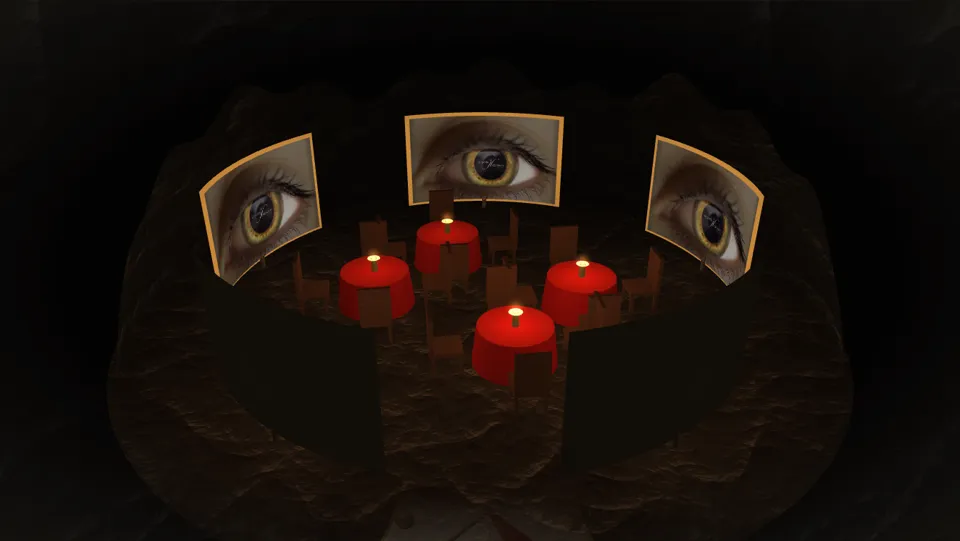
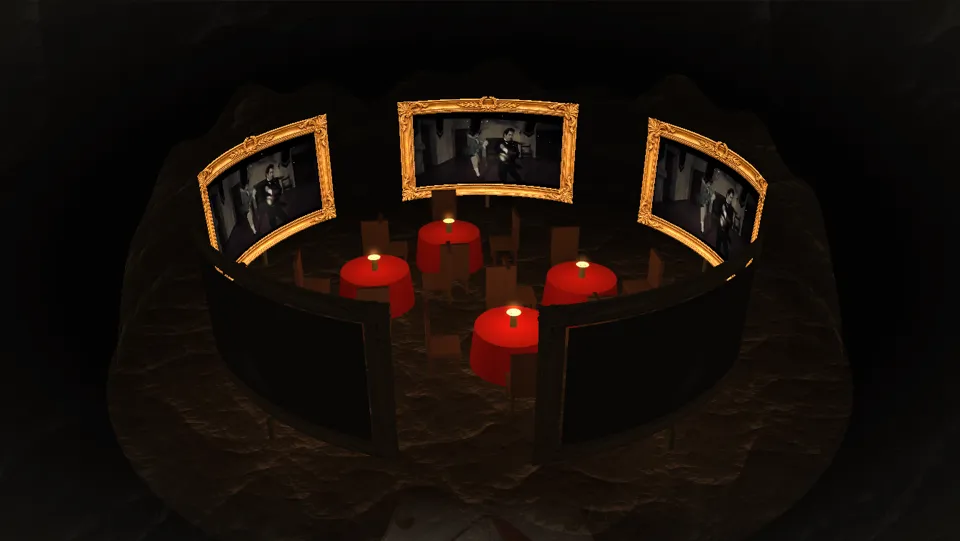
Grotte Napoléon : cadres dorés d'époque (moulures, acanthes, couronne de laurier) autour des cinq écrans de la salle 3D
Claude-Session: https://claude.ai/code/session_01Tg9JuPFfiTJrQ2axzwAjp1

diff --git a/clients/la-grotte-napoleon/salle.js b/clients/la-grotte-napoleon/salle.js
@@ -59,7 +59,10 @@
   };
 
   /* ---------- les dimensions ---------- */
-  const R = 3.0, RM = 3.7, HM = 2.2, HAUT = 1.45, BAS = .14, DEMI = .37, N = 5, NL = N + 4;
+  const R = 3.0, RM = 3.7, HM = 2.2, DEMI = .37, N = 5, NL = N + 4;
+  /* l'écran a la forme de l'ouverture du cadre doré (images/cadre.webp, proportions 2/1 ; moulures : 10 % à gauche et à droite, 14,8 % en haut et en bas) */
+  const LARG = 2 * DEMI * R, HECR = LARG / 2.0, BAS = .4, HAUT = BAS + HECR, CG = .099, CH = .148;
+  const LC = LARG / (1 - 2 * CG), HC = HECR / (1 - 2 * CH), RC = R - .02, DC = LC / 2 / RC, YC0 = (BAS + HAUT) / 2 - HC / 2, YC1 = YC0 + HC;
   const TABLES = [[-1.0, -.62], [1.0, -.62], [-1.0, .72], [1.0, .72]], RT = .4, HT = .44;
   const ECRANS = [...Array(N)].map((_, i) => { const a = i * 2 * Math.PI / N; return [-Math.sin(a), Math.cos(a)]; });
 
@@ -70,22 +73,25 @@
     void main(){ vec3 q = p; if (miroir > .5) q.y = -q.y; w = q; uv = t; n = nr; gl_Position = P * V * vec4(q, 1.0); }`;
   /* les objets éclairés : 5 écrans (couleur du film) et 4 lampes (vacillantes), Lambert doux, roche en texture si demandé */
   const pLum = prog(VS, `precision mediump float; varying vec2 uv; varying vec3 w, n; uniform vec3 col, oeil; uniform vec3 lp[${NL}], lc[${NL}];
-    uniform sampler2D roche; uniform float tex, coupe, brille, dos; ${brume}
+    uniform sampler2D roche, motif; uniform float tex, coupe, brille, dos, orne; ${brume}
     void main(){
       if (coupe > .5) { float c = dot(normalize(w.xz), normalize(oeil.xz)), an = atan(w.x, w.z); /* la paroi s’abaisse côté caméra (maquette), le haut irrégulier comme de la roche */
         float h = ${HM.toFixed(2)} * (1.0 - smoothstep(-.35, .55, c)) * (.86 + .08 * sin(an * 7.0) + .06 * sin(an * 17.0 + 1.3)); if (w.y > h) discard; }
       vec3 nn = normalize(n); if (!gl_FrontFacing) nn = -nn;
-      vec3 base = col; if (tex > .5) base *= texture2D(roche, fract((abs(nn.y) > .5 ? w.xz : vec2(atan(w.x, w.z) * 1.2, w.y)) * .32)).rgb * 1.7;
+      vec3 base = col;
+      if (orne > .5) { vec4 m = texture2D(motif, vec2(1.0 - uv.x, uv.y)); if (m.a < .5) discard; base = m.rgb * 1.1; } /* le cadre doré : ses moulures, son ouverture vide */
+      if (tex > .5) base *= texture2D(roche, fract((abs(nn.y) > .5 ? w.xz : vec2(atan(w.x, w.z) * 1.2, w.y)) * .32)).rgb * 1.7;
       vec3 l = base * vec3(.05,.042,.034);
       for (int i = 0; i < ${NL}; i++) { vec3 d = lp[i] - w; float r = length(d); d /= r;
         float lam = max(dot(nn, d), 0.0) * .8 + .2; l += base * lc[i] * lam / (1.0 + r * r * (i < ${N} ? .22 : 2.6)); }
       l += brille * base;
       if (dos > .5 && gl_FrontFacing) l = vec3(.035,.028,.02) + l * .08; /* le cadre vu de dos : le bois sombre du dos de l'écran */
       gl_FragColor = vec4(brume(l, w, oeil), 1.0); }`);
+  gl.useProgram(pLum); gl.uniform1i(gl.getUniformLocation(pLum, "motif"), 1); /* le cadre doré sur l'unité de texture 1 */
   /* l'écran : le film côté salle, le dos sombre côté extérieur ; le reflet sur le sol pâlit en s'éloignant */
   const pEcran = prog(VS, `precision mediump float; varying vec2 uv; varying vec3 w, n; uniform sampler2D film; uniform float miroir; uniform vec3 oeil; ${brume}
     void main(){ bool face = !gl_FrontFacing; vec3 c;
-      if (miroir > .5 || face) { c = texture2D(film, vec2(1.0 - uv.x, uv.y)).rgb * 1.15; float v = smoothstep(0.0, .05, uv.x) * smoothstep(1.0, .95, uv.x); c *= .8 + .2 * v; }
+      if (miroir > .5 || face) { c = texture2D(film, vec2(1.0 - uv.x, .056 + uv.y * .889)).rgb * 1.15; float v = smoothstep(0.0, .05, uv.x) * smoothstep(1.0, .95, uv.x); c *= .8 + .2 * v; }
       else c = vec3(.03,.025,.02);
       float a = 1.0; if (miroir > .5) a = .26 * pow(uv.y, 1.8);
       gl_FragColor = vec4(brume(c, w, oeil), a); }`);
@@ -97,8 +103,8 @@
     void main(){ vec2 d = gl_PointCoord - .5; float k = exp(-dot(d, d) * 18.0); gl_FragColor = vec4(col * k * a, 1.0); }`);
 
   /* ---------- les formes ---------- */
-  const ecran = tronc(R, R, BAS, HAUT, 20, 0, 0, -DEMI, DEMI), cadre = tronc(R + .03, R + .03, BAS - .045, HAUT + .045, 20, 0, 0, -DEMI - .02, DEMI + .02);
-  const pied = tronc(.035, .035, 0, BAS, 6, 0, R + .02);
+  const ecran = tronc(R, R, BAS, HAUT, 20, 0, 0, -DEMI, DEMI), cadre = tronc(RC, RC, YC0, YC1, 28, 0, 0, -DC, DC);
+  const pied = tronc(.035, .035, 0, YC0 + .05, 6, 0, R + .02);
   const sol = disque(RM + .35, 0, 96), mur = tronc(RM + .25, RM - .1, 0, HM, 120, 0, 0, 0, Math.PI * 2, -1);
   const nappes = TABLES.map(([x, z]) => [disque(RT, HT, 32, x, z), tronc(RT * 1.13, RT, .01, HT, 32, x, z), tronc(.04, .03, HT, HT + .16, 10, x, z), disque(.075, HT + .16, 16, x, z)]);
   const chaises = paves(TABLES.flatMap(([x, z]) => [0, 1, 2, 3].map(k => { const a = k * Math.PI / 2 + Math.PI / 4, d = RT + .32; const cx = x + Math.sin(a) * d, cz = z + Math.cos(a) * d, ca = Math.cos(a), sa = Math.sin(a), pied = (u, v) => [cx + ca * u + sa * v, .11, cz - sa * u + ca * v, .018, .11, .018, a];
@@ -109,6 +115,12 @@
   /* ---------- les textures ---------- */
   const texFilm = gl.createTexture(), texRoche = gl.createTexture();
   for (const tx of [texFilm, texRoche]) { gl.bindTexture(gl.TEXTURE_2D, tx); gl.texParameteri(gl.TEXTURE_2D, gl.TEXTURE_MIN_FILTER, gl.LINEAR); gl.texParameteri(gl.TEXTURE_2D, gl.TEXTURE_MAG_FILTER, gl.LINEAR); gl.texParameteri(gl.TEXTURE_2D, gl.TEXTURE_WRAP_S, gl.CLAMP_TO_EDGE); gl.texParameteri(gl.TEXTURE_2D, gl.TEXTURE_WRAP_T, gl.CLAMP_TO_EDGE); gl.texImage2D(gl.TEXTURE_2D, 0, gl.RGB, 1, 1, 0, gl.RGB, gl.UNSIGNED_BYTE, new Uint8Array([90, 80, 70])); }
+  const texCadre = gl.createTexture(); gl.activeTexture(gl.TEXTURE1); gl.bindTexture(gl.TEXTURE_2D, texCadre);
+  for (const [k, v] of [[gl.TEXTURE_MIN_FILTER, gl.LINEAR], [gl.TEXTURE_MAG_FILTER, gl.LINEAR], [gl.TEXTURE_WRAP_S, gl.CLAMP_TO_EDGE], [gl.TEXTURE_WRAP_T, gl.CLAMP_TO_EDGE]]) gl.texParameteri(gl.TEXTURE_2D, k, v);
+  gl.texImage2D(gl.TEXTURE_2D, 0, gl.RGBA, 1, 1, 0, gl.RGBA, gl.UNSIGNED_BYTE, new Uint8Array([0, 0, 0, 0]));
+  const motif = new Image(); motif.src = "images/cadre.webp";
+  motif.onload = () => { gl.activeTexture(gl.TEXTURE1); gl.bindTexture(gl.TEXTURE_2D, texCadre); gl.texImage2D(gl.TEXTURE_2D, 0, gl.RGBA, gl.RGBA, gl.UNSIGNED_BYTE, motif); gl.activeTexture(gl.TEXTURE0); };
+  gl.activeTexture(gl.TEXTURE0);
   const roche = new Image(); roche.src = "images/roche.webp";
   roche.onload = () => { gl.bindTexture(gl.TEXTURE_2D, texRoche); gl.texImage2D(gl.TEXTURE_2D, 0, gl.RGB, gl.RGB, gl.UNSIGNED_BYTE, roche); };
   const affiche = boite.querySelector("img"), video = document.createElement("video");
@@ -133,7 +145,7 @@
     else gl.drawArrays(gl.POINTS, 0, g.n);
   };
   const tourne = (V, i) => { const a = i * 2 * Math.PI / N, c = Math.cos(a), s = Math.sin(a), M = new Float32Array(V); for (let k = 0; k < 4; k++) { M[k] = V[k] * c + V[8 + k] * s; M[8 + k] = V[8 + k] * c - V[k] * s; } return M; };
-  const VIDE = { miroir: 0, tex: 0, coupe: 0, brille: 0, dos: 0 };
+  const VIDE = { miroir: 0, tex: 0, coupe: 0, brille: 0, dos: 0, orne: 0 };
   let theta = .55, vitesse = 0, actif = false, enCours = false, dernier = 0, t = 0;
   const taille = () => {
     const dpr = Math.min(devicePixelRatio || 1, innerWidth < 760 ? 1.5 : 2), r = boite.getBoundingClientRect();
@@ -157,7 +169,6 @@
     const L = { V, oeil, lp, lc, roche: 0 };
     gl.clearColor(.012, .009, .007, 1); gl.enable(gl.DEPTH_TEST); gl.depthMask(true); gl.disable(gl.BLEND); gl.clear(gl.COLOR_BUFFER_BIT | gl.DEPTH_BUFFER_BIT);
     gl.activeTexture(gl.TEXTURE0); gl.bindTexture(gl.TEXTURE_2D, texRoche);
-    gl.uniform3fv(gl.getUniformLocation(pLum, "lp"), lp);
     const lum = (g, col, extra = {}) => { gl.useProgram(pLum); gl.uniform3fv(gl.getUniformLocation(pLum, "lp"), lp); gl.uniform3fv(gl.getUniformLocation(pLum, "lc"), lc); dessine(pLum, g, { ...VIDE, V, oeil, col, ...extra }); };
     lum(sol, [1.1, .9, .72], { tex: 1, brille: .05 });
     lum(mur, [1.35, 1.12, .9], { tex: 1, coupe: 1, brille: .18 });
@@ -167,7 +178,7 @@
     gl.depthMask(true); gl.disable(gl.BLEND); gl.bindTexture(gl.TEXTURE_2D, texRoche);
     for (const [dessus, tour, tige, abat] of nappes) { lum(tour, [.62, .07, .05]); lum(dessus, [.78, .12, .08]); lum(tige, [.5, .4, .2]); lum(abat, [1, .8, .5], { brille: .9 }); }
     lum(chaises, [.32, .19, .11]);
-    for (let i = 0; i < N; i++) { const Vi = tourne(V, i); dessine(pLum, cadre, { ...VIDE, V: Vi, oeil, col: [.75, .6, .3], brille: .25, dos: 1 }); dessine(pLum, pied, { ...VIDE, V: Vi, oeil, col: [.3, .25, .15] }); gl.bindTexture(gl.TEXTURE_2D, texFilm); dessine(pEcran, ecran, { V: Vi, miroir: 0, oeil }); gl.bindTexture(gl.TEXTURE_2D, texRoche); }
+    for (let i = 0; i < N; i++) { const Vi = tourne(V, i); dessine(pLum, cadre, { ...VIDE, V: Vi, oeil, col: [1, 1, 1], brille: .32, dos: 1, orne: 1 }); dessine(pLum, pied, { ...VIDE, V: Vi, oeil, col: [.3, .25, .15] }); gl.bindTexture(gl.TEXTURE_2D, texFilm); dessine(pEcran, ecran, { V: Vi, miroir: 0, oeil }); gl.bindTexture(gl.TEXTURE_2D, texRoche); }
     /* les halos (écrans, lampes) puis la poussière, additifs */
     gl.depthMask(false); gl.enable(gl.BLEND); gl.blendFunc(gl.ONE, gl.ONE);
     ECRANS.forEach(([x, z]) => { dessine(pHalo, { pos: tampon2([x * (R - .15), .8, z * (R - .15)]), n: 1 }, { V, taille: 900 * dpr * (portrait ? .7 : 1), t, vole: 0, col: teinte.map(v => v * .16) }); });

diff --git a/clients/la-grotte-napoleon/produit.html b/clients/la-grotte-napoleon/produit.html
@@ -8,7 +8,7 @@
 <meta name="robots" content="noindex">
 <meta name="theme-color" content="#161411">
 <link rel="icon" href="images/couronne.png">
-<link rel="stylesheet" href="grotte.css?v=20261101p">
+<link rel="stylesheet" href="grotte.css?v=20261101r">
 </head>
 <body data-titre="meta-produit">
 <div class="maquette" data-t="bandeau">Maquette préparée par Saitora pour La Grotte Napoléon : à valider ensemble avant la mise en ligne.</div>
@@ -89,8 +89,8 @@
   <a href="./#venir" data-t="barre-plan">Plan</a>
 </div>
 
-<script src="produits.js?v=20261101p"></script>
-<script src="textes.js?v=20261101p"></script>
-<script src="grotte.js?v=20261101p"></script>
+<script src="produits.js?v=20261101r"></script>
+<script src="textes.js?v=20261101r"></script>
+<script src="grotte.js?v=20261101r"></script>
 </body>
 </html>

diff --git a/clients/la-grotte-napoleon/panier.html b/clients/la-grotte-napoleon/panier.html
@@ -8,7 +8,7 @@
 <meta name="robots" content="noindex">
 <meta name="theme-color" content="#161411">
 <link rel="icon" href="images/couronne.png">
-<link rel="stylesheet" href="grotte.css?v=20261101p">
+<link rel="stylesheet" href="grotte.css?v=20261101r">
 </head>
 <body data-titre="meta-panier">
 <div class="maquette" data-t="bandeau">Maquette préparée par Saitora pour La Grotte Napoléon : à valider ensemble avant la mise en ligne.</div>
@@ -79,8 +79,8 @@
   <a href="./#venir" data-t="barre-plan">Plan</a>
 </div>
 
-<script src="produits.js?v=20261101p"></script>
-<script src="textes.js?v=20261101p"></script>
-<script src="grotte.js?v=20261101p"></script>
+<script src="produits.js?v=20261101r"></script>
+<script src="textes.js?v=20261101r"></script>
+<script src="grotte.js?v=20261101r"></script>
 </body>
 </html>

diff --git a/clients/la-grotte-napoleon/boutique.html b/clients/la-grotte-napoleon/boutique.html
@@ -8,7 +8,7 @@
 <meta name="robots" content="noindex">
 <meta name="theme-color" content="#161411">
 <link rel="icon" href="images/couronne.png">
-<link rel="stylesheet" href="grotte.css?v=20261101p">
+<link rel="stylesheet" href="grotte.css?v=20261101r">
 </head>
 <body class="btq" data-titre="meta-boutique">
 <div class="maquette" data-t="bandeau">Maquette préparée par Saitora pour La Grotte Napoléon : à valider ensemble avant la mise en ligne.</div>
@@ -270,8 +270,8 @@
 </div>
 
 
-<script src="produits.js?v=20261101p"></script>
-<script src="textes.js?v=20261101p"></script>
-<script src="grotte.js?v=20261101p"></script>
+<script src="produits.js?v=20261101r"></script>
+<script src="textes.js?v=20261101r"></script>
+<script src="grotte.js?v=20261101r"></script>
 </body>
 </html>

diff --git a/clients/la-grotte-napoleon/reserver.html b/clients/la-grotte-napoleon/reserver.html
@@ -8,7 +8,7 @@
 <meta name="robots" content="noindex">
 <meta name="theme-color" content="#161411">
 <link rel="icon" href="images/couronne.png">
-<link rel="stylesheet" href="grotte.css?v=20261101p">
+<link rel="stylesheet" href="grotte.css?v=20261101r">
 </head>
 <body data-titre="meta-reserver">
 <div class="maquette" data-t="bandeau">Maquette préparée par Saitora pour La Grotte Napoléon : à valider ensemble avant la mise en ligne.</div>
@@ -93,7 +93,7 @@
   <a href="./#venir" data-t="barre-plan">Plan</a>
 </div>
 
-<script src="textes.js?v=20261101p"></script>
-<script src="grotte.js?v=20261101p"></script>
+<script src="textes.js?v=20261101r"></script>
+<script src="grotte.js?v=20261101r"></script>
 </body>
 </html>

diff --git a/clients/la-grotte-napoleon/formules.html b/clients/la-grotte-napoleon/formules.html
@@ -8,7 +8,7 @@
 <meta name="robots" content="noindex">
 <meta name="theme-color" content="#161411">
 <link rel="icon" href="images/couronne.png">
-<link rel="stylesheet" href="grotte.css?v=20261101p">
+<link rel="stylesheet" href="grotte.css?v=20261101r">
 </head>
 <body data-titre="meta-formules">
 <div class="maquette" data-t="bandeau">Maquette préparée par Saitora pour La Grotte Napoléon : à valider ensemble avant la mise en ligne.</div>
@@ -146,7 +146,7 @@
 </div>
 
 
-<script src="textes.js?v=20261101p"></script>
-<script src="grotte.js?v=20261101p"></script>
+<script src="textes.js?v=20261101r"></script>
+<script src="grotte.js?v=20261101r"></script>
 </body>
 </html>

diff --git a/clients/la-grotte-napoleon/index.html b/clients/la-grotte-napoleon/index.html
@@ -8,7 +8,7 @@
 <meta name="robots" content="noindex">
 <meta name="theme-color" content="#161411">
 <link rel="icon" href="images/couronne.png">
-<link rel="stylesheet" href="grotte.css?v=20261101p">
+<link rel="stylesheet" href="grotte.css?v=20261101r">
 </head>
 <body data-titre="meta-titre">
 <div class="maquette" data-t="bandeau">Maquette préparée par Saitora pour La Grotte Napoléon : à valider ensemble avant la mise en ligne.</div>
@@ -204,7 +204,7 @@
 </div>
 
 
-<script src="textes.js?v=20261101p"></script>
-<script src="grotte.js?v=20261101p"></script>
+<script src="textes.js?v=20261101r"></script>
+<script src="grotte.js?v=20261101r"></script>
 </body>
 </html>

diff --git a/clients/la-grotte-napoleon/NOTES.md b/clients/la-grotte-napoleon/NOTES.md
@@ -62,3 +62,4 @@ Tout ce qui a été fait, décidé ou refusé sur ce site (repris de `ETAT.md` l
 - **La salle vue par une ouverture de grotte (1er novembre 2026, idée de l’utilisateur)** : le cadre rectangulaire de la salle 3D est remplacé par une ouverture irrégulière dans la roche : `images/grotte-bord.webp` (la lèvre de pierre, faite à partir du papier rocher, plus claire et chaude là où les écrans l’éclairent, avec une ombre douce vers l’intérieur) posée par-dessus, et `images/grotte-trou.webp` qui découpe la salle à sa forme (`mask`). Voûte arrondie en haut ; sur téléphone l’ouverture est plus haute et prend toute la largeur. Un premier essai en `clip-path` (bords en dents de scie, contour noir) et un second avec une arête lumineuse (« papier brûlé ») ont été écartés avant publication.
 - **La salle vue d’en haut (1er novembre 2026, piste 3 choisie par l’utilisateur ; l’ouverture de grotte ne lui plaisait pas)** : `salle.js` montre maintenant la salle comme une maquette : caméra en plongée qui tourne lentement autour (souris ou doigt pour tourner), les cinq écrans incurvés en cercle avec le film côté salle et un dos sombre côté extérieur, quatre tables rondes à nappe rouge avec leur lampe au milieu, sol de papier rocher éclairé près des écrans et sous les lampes, reflets des écrans au sol ; pleine largeur, sans cadre, fondue dans la page sur les bords (`mask` radial). Les images de l’ouverture de grotte sont supprimées.
 - **La salle rendue très belle (1er novembre 2026, demande de l’utilisateur)** : `salle.js` réécrit : vrai éclairage (la lumière des cinq écrans prend la couleur moyenne du film à chaque instant, lue sur une image de 6×6 px ; les quatre lampes des tables vacillent), nappes rouges qui tombent en s’évasant, seize chaises en bois avec pieds, paroi de roche tout autour qui s’abaisse en pente vers la caméra avec un haut irrégulier (vue de maquette), sol de roche limité à la salle, dos des écrans en bois sombre, halos de lumière autour des écrans et des lampes, poussière qui flotte dans la lumière ; caméra plus basse qui respire légèrement. L’image fixe de secours `salle-affiche.webp` est une capture de ce rendu.
+- **Cadres dorés d’époque sur les écrans (1er novembre 2026)** : l’utilisateur a fait avec ChatGPT un cadre doré Empire vide (prompt donné dans la discussion) ; `images/cadre.webp` est posé en texture (avec sa transparence) sur une bande incurvée devant chaque écran, éclairé par les lumières de la salle, dos en bois sombre. L’ouverture du cadre étant en 2/1, les écrans ont pris cette forme (le film, en 16/9, est rogné de 5,5 % en haut et en bas) et sont remontés à 0,4 du sol.
